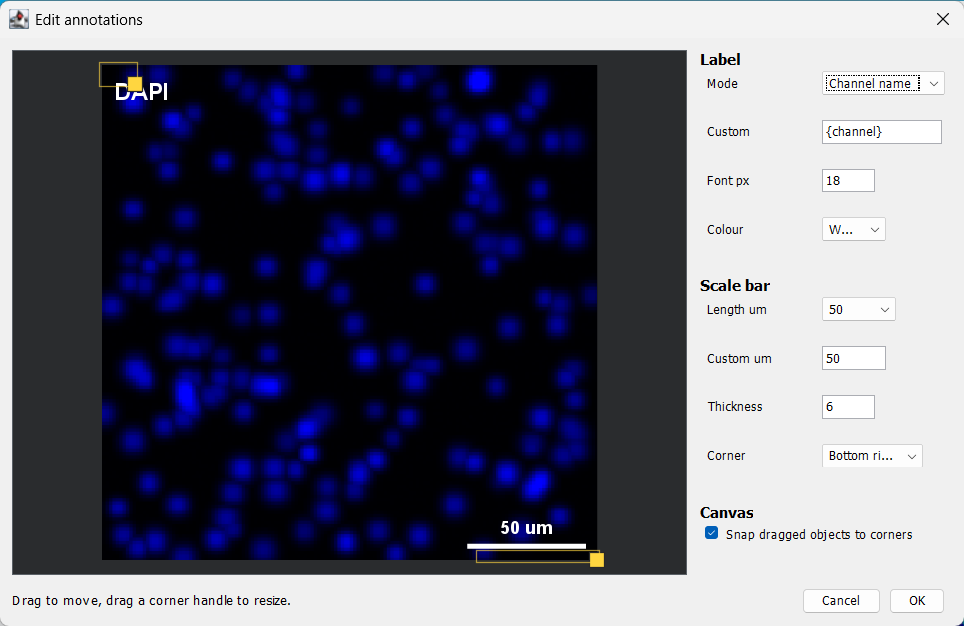
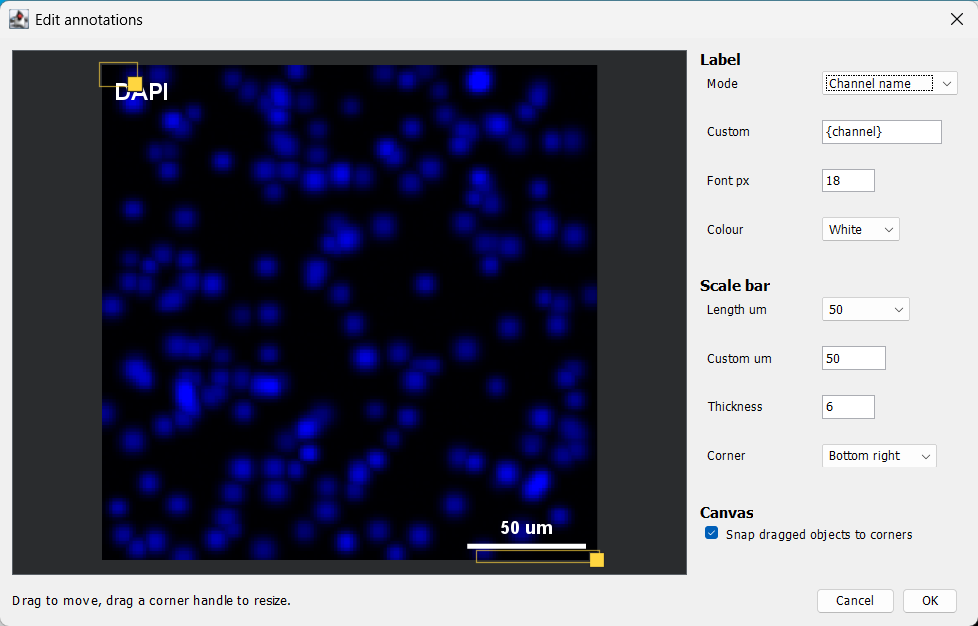
Retake the wizard screenshots against 0.1.1
The Export shots showed "..." where the drop-down width fix now shows
"1x", so the walkthrough no longer illustrates a defect that has been
fixed. Adds a real export progress screen: the harness now skips that
shot when the export finishes before the shutter opens, rather than
capturing a second "Export complete".

diff --git a/docs/gui-screenshots/regenerate/FpbShots.java b/docs/gui-screenshots/regenerate/FpbShots.java
@@ -408,8 +408,20 @@ public final class FpbShots {
                 invoke(step, "startExport");
             }
         });
-        settle(3000);
-        shootWizard("14_step5_export_running");
+        // Same guard as the step 3 loader: a small cohort can finish before the
+        // shutter opens, and a second "Export complete" shot is worse than none.
+        settle(900);
+        boolean stillExporting = onEdtGet(new Callable<Boolean>() {
+            public Boolean call() {
+                return Boolean.valueOf(get(step, "activeRun") != null);
+            }
+        }).booleanValue();
+        if (stillExporting) {
+            shootWizard("14_step5_export_running");
+        } else {
+            System.out.println("  - skipped 14_step5_export_running "
+                    + "(export finished before the shutter opened)");
+        }
 
         waitUntil("export to finish", 600000, new Callable<Boolean>() {
             public Boolean call() throws Exception {

diff --git a/docs/gui-screenshots/regenerate/README.md b/docs/gui-screenshots/regenerate/README.md
@@ -26,5 +26,8 @@ Two knobs worth knowing:
 - `SHADOW_LOGICAL_PX` trims the invisible Windows resize border, which would
   otherwise leave a strip of desktop down the edges of every shot.
 
-The step 3 loading screen is only captured if the cohort is still loading 140 ms
-after the step opens; with a warm file cache it is skipped rather than faked.
+Two shots are conditional, and are skipped rather than faked when the machine is
+too quick for them: the step 3 loading screen needs the cohort to still be
+loading 140 ms after the step opens, and the export progress screen needs the
+export to still be running 900 ms after it starts. Both are captured with the
+twelve-image demo set on a warm file cache, but a smaller set may miss them.
